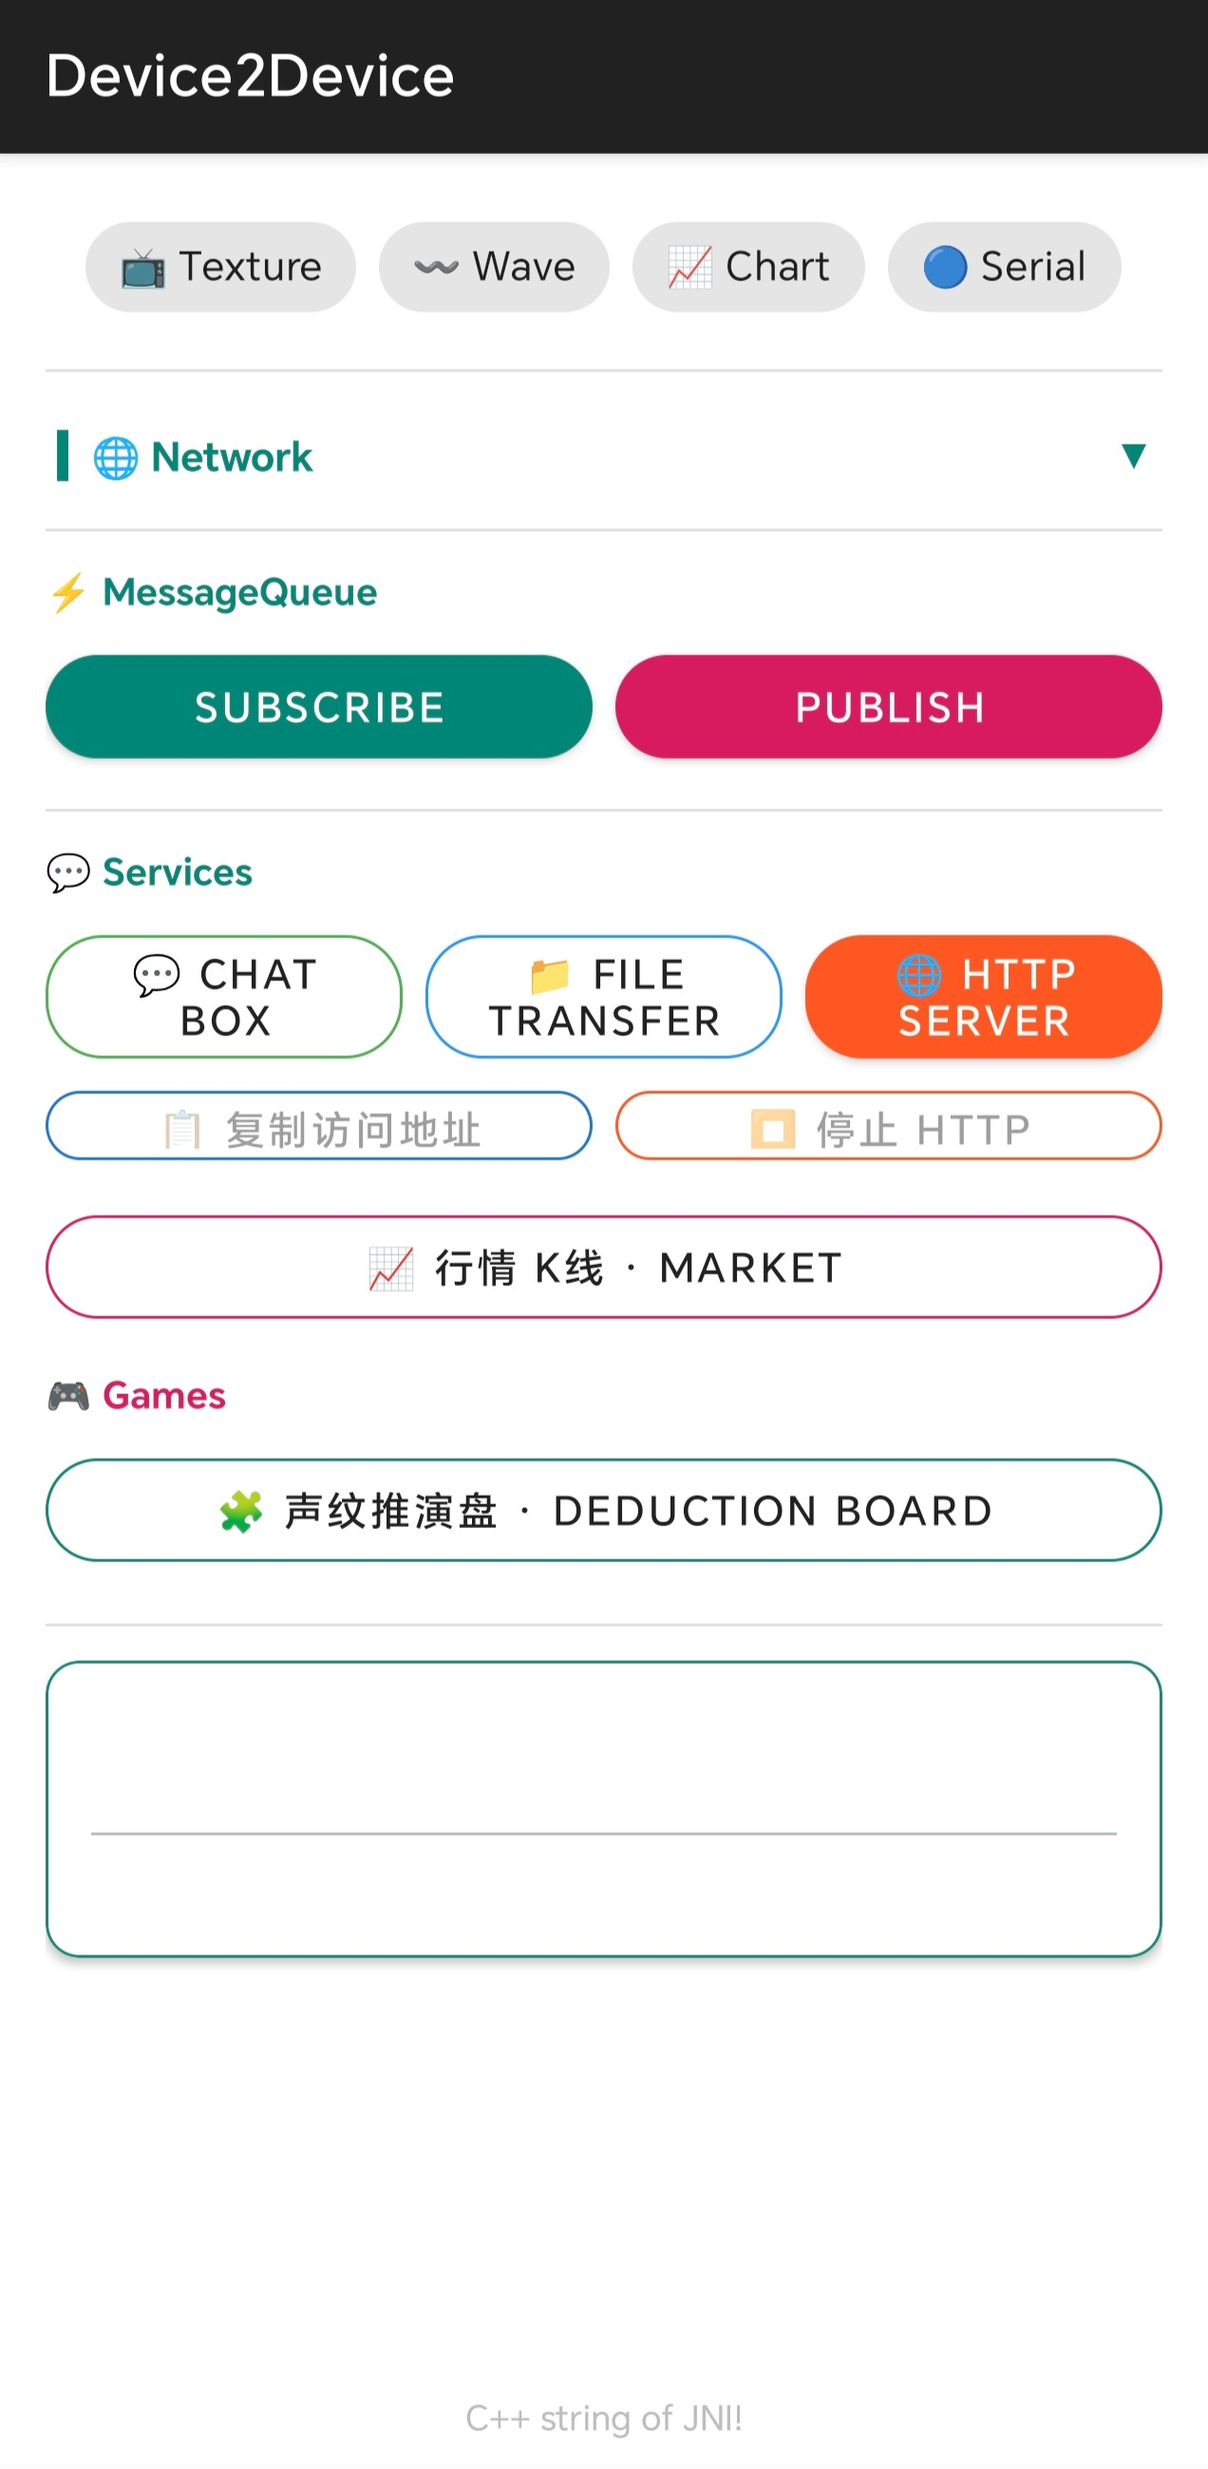
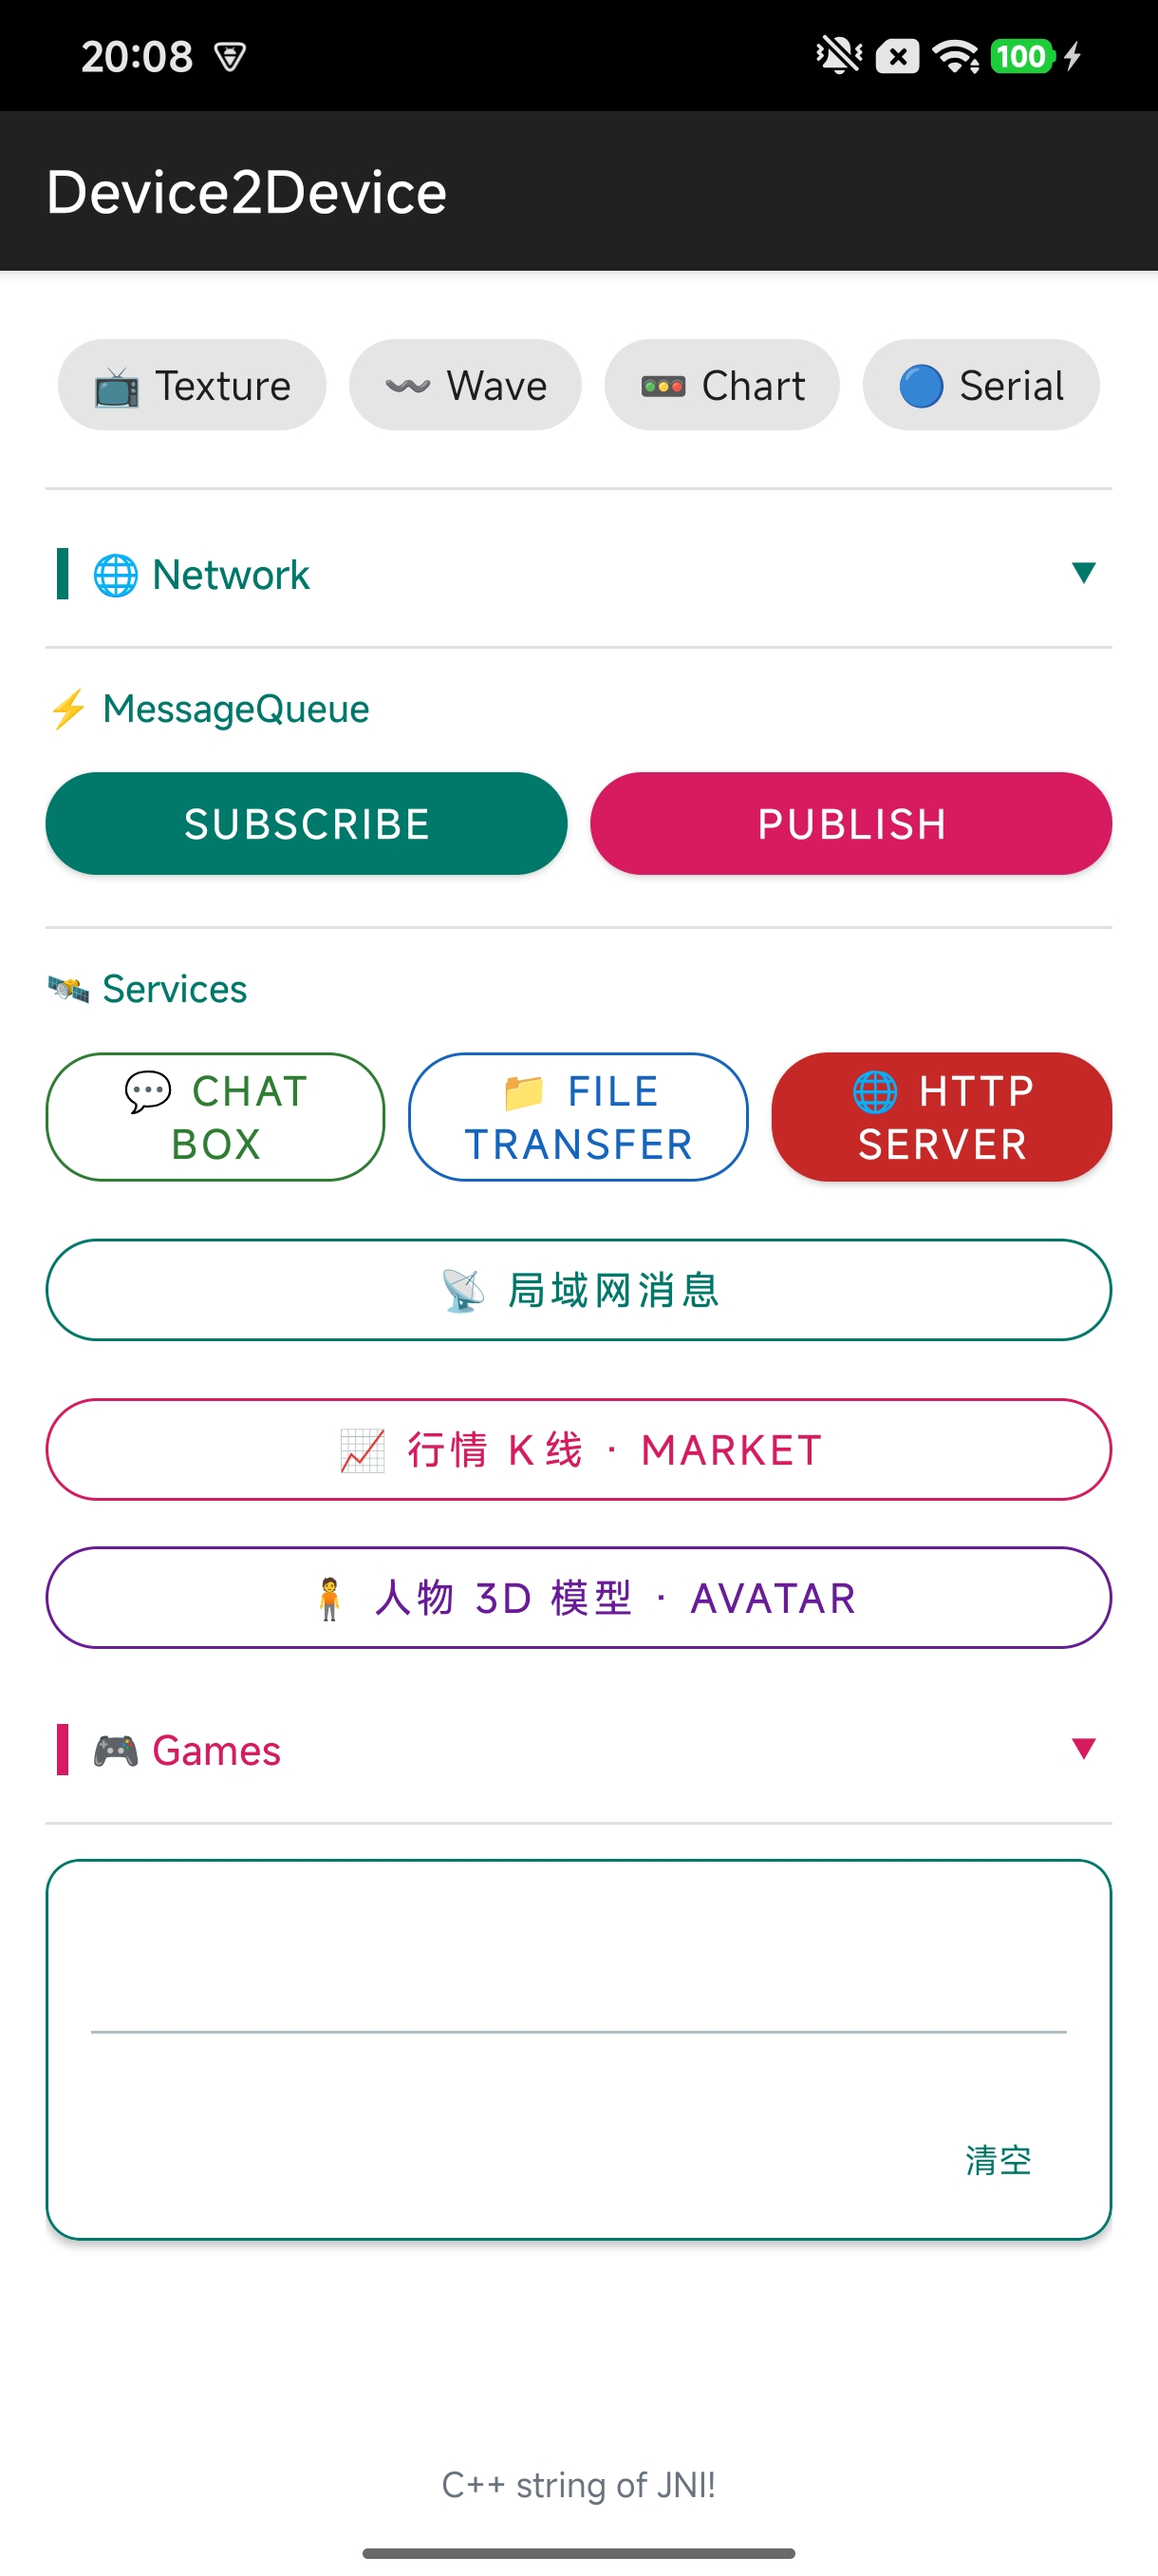
File transfer: align protocol with LinxSrvc; shorten splash animation; README polish
- FileMsgSocket.{h,cpp}: magic now embeds PROTOCOL_VERSION (kProtocolMagic), kept in sync with Mac/Linux LinxSrvc TransferEngine so mismatched versions are rejected at magic-check
- res/anim/auth.xml: splash/auth animation ~2000ms -> ~800ms
- README: add Anny/KCP/MyAutomatic GitHub badges with coordinated green/blue/purple palette; add 2026-11 changelog; simplify Recent Changes
- image/MainActivity.jpg: screenshot update

diff --git a/app/src/main/cpp/socket/FileMsgSocket.cpp b/app/src/main/cpp/socket/FileMsgSocket.cpp
@@ -31,8 +31,8 @@
 // --- Helper: fill FileHeader with common defaults ---
 static inline void fillHeader(FileHeader& h, uint16_t cmd) {
     memset(&h, 0, sizeof(h));
-    memcpy(h.magic, "FTF\0", 4);
-    h.version = 1;
+    memcpy(h.magic, kProtocolMagic, sizeof(kProtocolMagic));
+    h.version = PROTOCOL_VERSION;
     h.cmd = cmd;
 }
 
@@ -639,8 +639,9 @@ void FileMsgSocket::clientHandler(int sock, const std::string& clientIp, unsigne
         // 收到的头是网络序，先转回主机序再解析
         headerToHost(header);
 
-        if (memcmp(header.magic, "FTF\0", 4) != 0) {
-            LOGE("%s invalid magic number: 0x%08x, client disconnected", statusPrefix.c_str(), *(uint32_t*)header.magic);
+        // 验证魔数
+        if (memcmp(header.magic, kProtocolMagic, sizeof(kProtocolMagic)) != 0) {
+            LOGE("%s invalid magic number: 0x%08x, expect 0x%08x, client disconnected", statusPrefix.c_str(), *(uint32_t*)header.magic, *(uint32_t*)kProtocolMagic);
             break;
         }
 

diff --git a/app/src/main/cpp/socket/FileMsgSocket.h b/app/src/main/cpp/socket/FileMsgSocket.h
@@ -23,12 +23,16 @@
 
 #include <utils/logging.h>
 
+// 版本写进魔数第 3 字节，版本不同的端在魔数校验阶段就被拒。
+static constexpr uint8_t PROTOCOL_VERSION = 1;
+static constexpr uint8_t kProtocolMagic[4] = { 'F', 'T', 0xF0 + PROTOCOL_VERSION, 0x00 };
+
 // 文件传输协议头 (64字节), 大端序(网络字节序)
 // 与 MyAutomatic/LinxSrvc/Mac/Transfer 的 TransferEngine.h 逐字段对齐，两端才能互通
 #pragma pack(push, 1)
 struct FileHeader {
-    uint8_t  magic[4];       // 魔数: "FTF\0"
-    uint8_t  version;        // 协议版本: 1
+    uint8_t  magic[4];       // 魔数: 'F','T',0xF0+version,0x00
+    uint8_t  version;        // 协议版本
     uint16_t cmd;            // 命令: 1=请求, 2=响应, 3=数据, 4=完成, 5=取消
     uint32_t fileNameLen;    // 文件名长度
     uint64_t fileSize;       // 文件总大小

diff --git a/README.md b/README.md
@@ -1,7 +1,8 @@
 [![Build Status](https://tsymiar.visualstudio.com/MyAutomatic/_apis/build/status/tsymiar.Device2Device?repoName=tsymiar%2FDevice2Device&branchName=main)](https://tsymiar.visualstudio.com/MyAutomatic/_build/latest?definitionId=72&repoName=tsymiar%2FDevice2Device&branchName=main)
 [![Codacy Badge](https://app.codacy.com/project/badge/Grade/6cb8f83fb83d4e50a33bc39e470f2891)](https://app.codacy.com/gh/tsymiar/Device2Device/dashboard?utm_source=gh&utm_medium=referral&utm_content=&utm_campaign=Badge_grade)
-![Anny](https://img.shields.io/badge/arXiv-2511.03589-B31B1B)
-![KCP](app/src/main/cpp/socket/kcp/kcp.svg)
+[![Anny](https://img.shields.io/badge/GitHub-naver%2Fanny-1f883d?logo=github)](https://github.com/naver/anny)
+[![KCP](https://img.shields.io/badge/GitHub-skywind3000%2Fkcp-2B90D9?logo=github)](https://github.com/skywind3000/kcp)
+[![MyAutomatic](https://img.shields.io/badge/tsymiar-MyAutomatic-8250df?logo=github)](https://github.com/tsymiar/MyAutomatic)
 
 # Device2Device
 
@@ -115,20 +116,24 @@ MIT
 
 ## Recent Changes
 
+### 2026-11
+- **File transfer:** aligned protocol with `LinxSrvc` (Mac/Linux) — magic now embeds `PROTOCOL_VERSION`; `FileMsgSocket` kept in sync with `TransferEngine`.
+- **UI:** splash/auth animation shortened (~2000 ms → ~800 ms).
+
 ### 2026-10
-- **LAN:** KCP-over-UDP messenger — text/image exchange, UDP-broadcast peer discovery, configurable discovery address and port; kcp protocol vendored under `socket/`.
-- **Game:** *Voiceprint Deduction* board — voice samples, proposition synthesis, three psychological traps (echo reinforcement / negative overwrite / self-learning), full-screen dialog with adaptive board text.
-- **Market:** 4×4 market-cap heatmap widget (top-30 A-shares by cap; tile area = cap, colour = daily change, tap opens the quote; painted as one tree, 50 tiles per screen); quote-list widget renamed and rows land progressively as data arrives; default K-line symbol switched to Zijin Mining (601899) with a 1-minute intraday chart (previous-close baseline + change scale).
-- **ChatBox:** multi-provider (DeepSeek / Ollama local + Cloud / OpenRouter), editable Ollama host, per-provider model lists (OpenRouter free models only).
-- **Sensors:** Catmull-Rom smoothed decibel card line and area, control points clamped against overshoot.
-- **System:** SSH controls merged into the Network section; MediaCodec video rendered straight into the TextureView surface; Bluetooth connects on a worker thread and stops the floating service on exit.
-- **Avatar:** Air Bangs; Anny Bust (taller, rounder, seamless); Hip Fullness calibration.
+- **LAN:** KCP-over-UDP messenger with UDP-broadcast discovery.
+- **Game:** *Voiceprint Deduction* board (voice samples, proposition synthesis, 3 psychological traps).
+- **Market:** 4×4 market-cap heatmap widget; progressive quote-list widget; Zijin Mining default K-line.
+- **ChatBox:** multi-provider (DeepSeek / Ollama / OpenRouter) with editable Ollama host.
+- **Sensors:** Catmull-Rom smoothed decibel card.
+- **System:** SSH controls merged into Network; MediaCodec→TextureView; BT on worker thread.
+- **Avatar:** Air Bangs; Anny Bust; Hip Fullness calibration.
 
 ### 2026-09
-- **Avatar:** Anny engine (bundled `anny.mhb`, phenotype scaling), face shapes and hairstyles, real mesh head, A-pose legs, bare feet, body measurements, photo fallback, seam smoothing.
-- **Sensors:** scalable dashboard, full-screen compass / level, decibel card.
-- **Market:** K-line view (11 data sources) + 2×2 quote list widget.
-- **System:** SSH server (port 2222), HTTP server + SAF fixes, dark-mode aware spinner.
+- **Avatar:** Anny engine, face shapes/hairstyles, body measurements, photo fallback.
+- **Sensors:** scalable dashboard, full-screen compass/level, decibel card.
+- **Market:** K-line view (11 sources) + 2×2 quote list widget.
+- **System:** SSH server (2222), HTTP + SAF fixes, dark-mode spinner.
 
 ### 2026-06
-- **Messaging:** `MSG_HINT`, async Pub/Sub with topic isolation, subscription buffer fix, port parsing hardening, UI polish.
+- **Messaging:** `MSG_HINT`, async Pub/Sub, subscription buffer fix, port parsing hardening.
